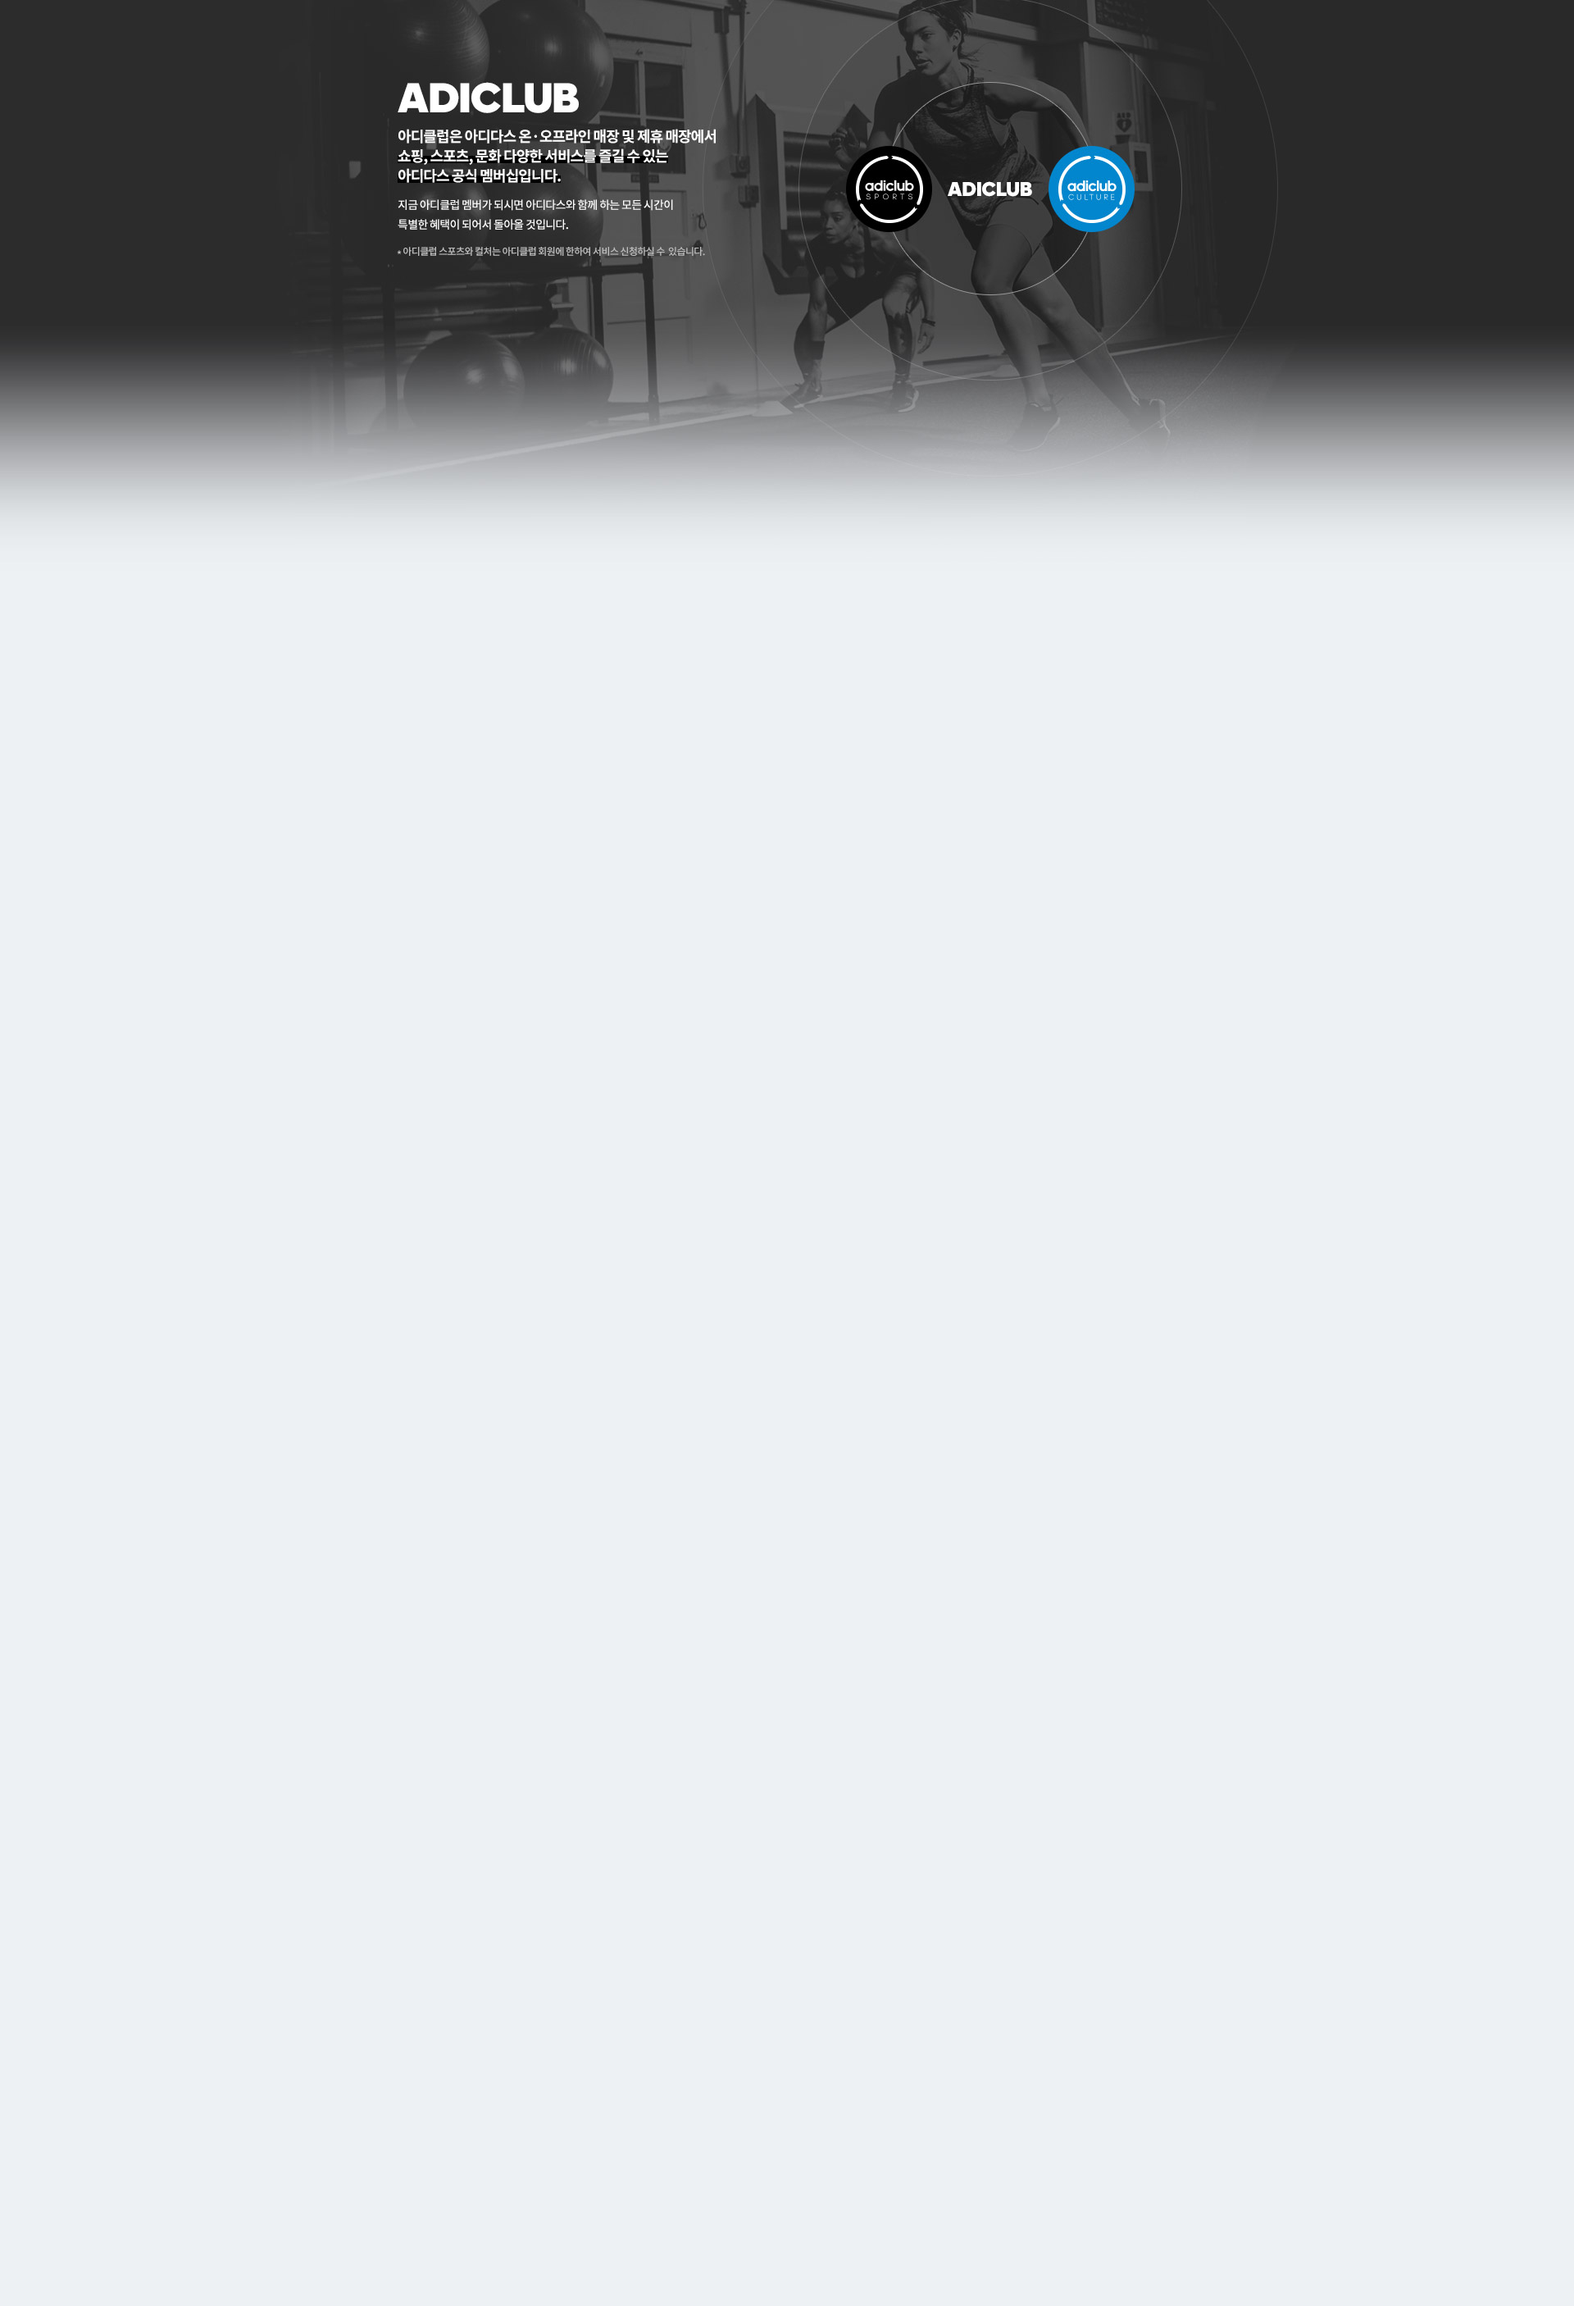
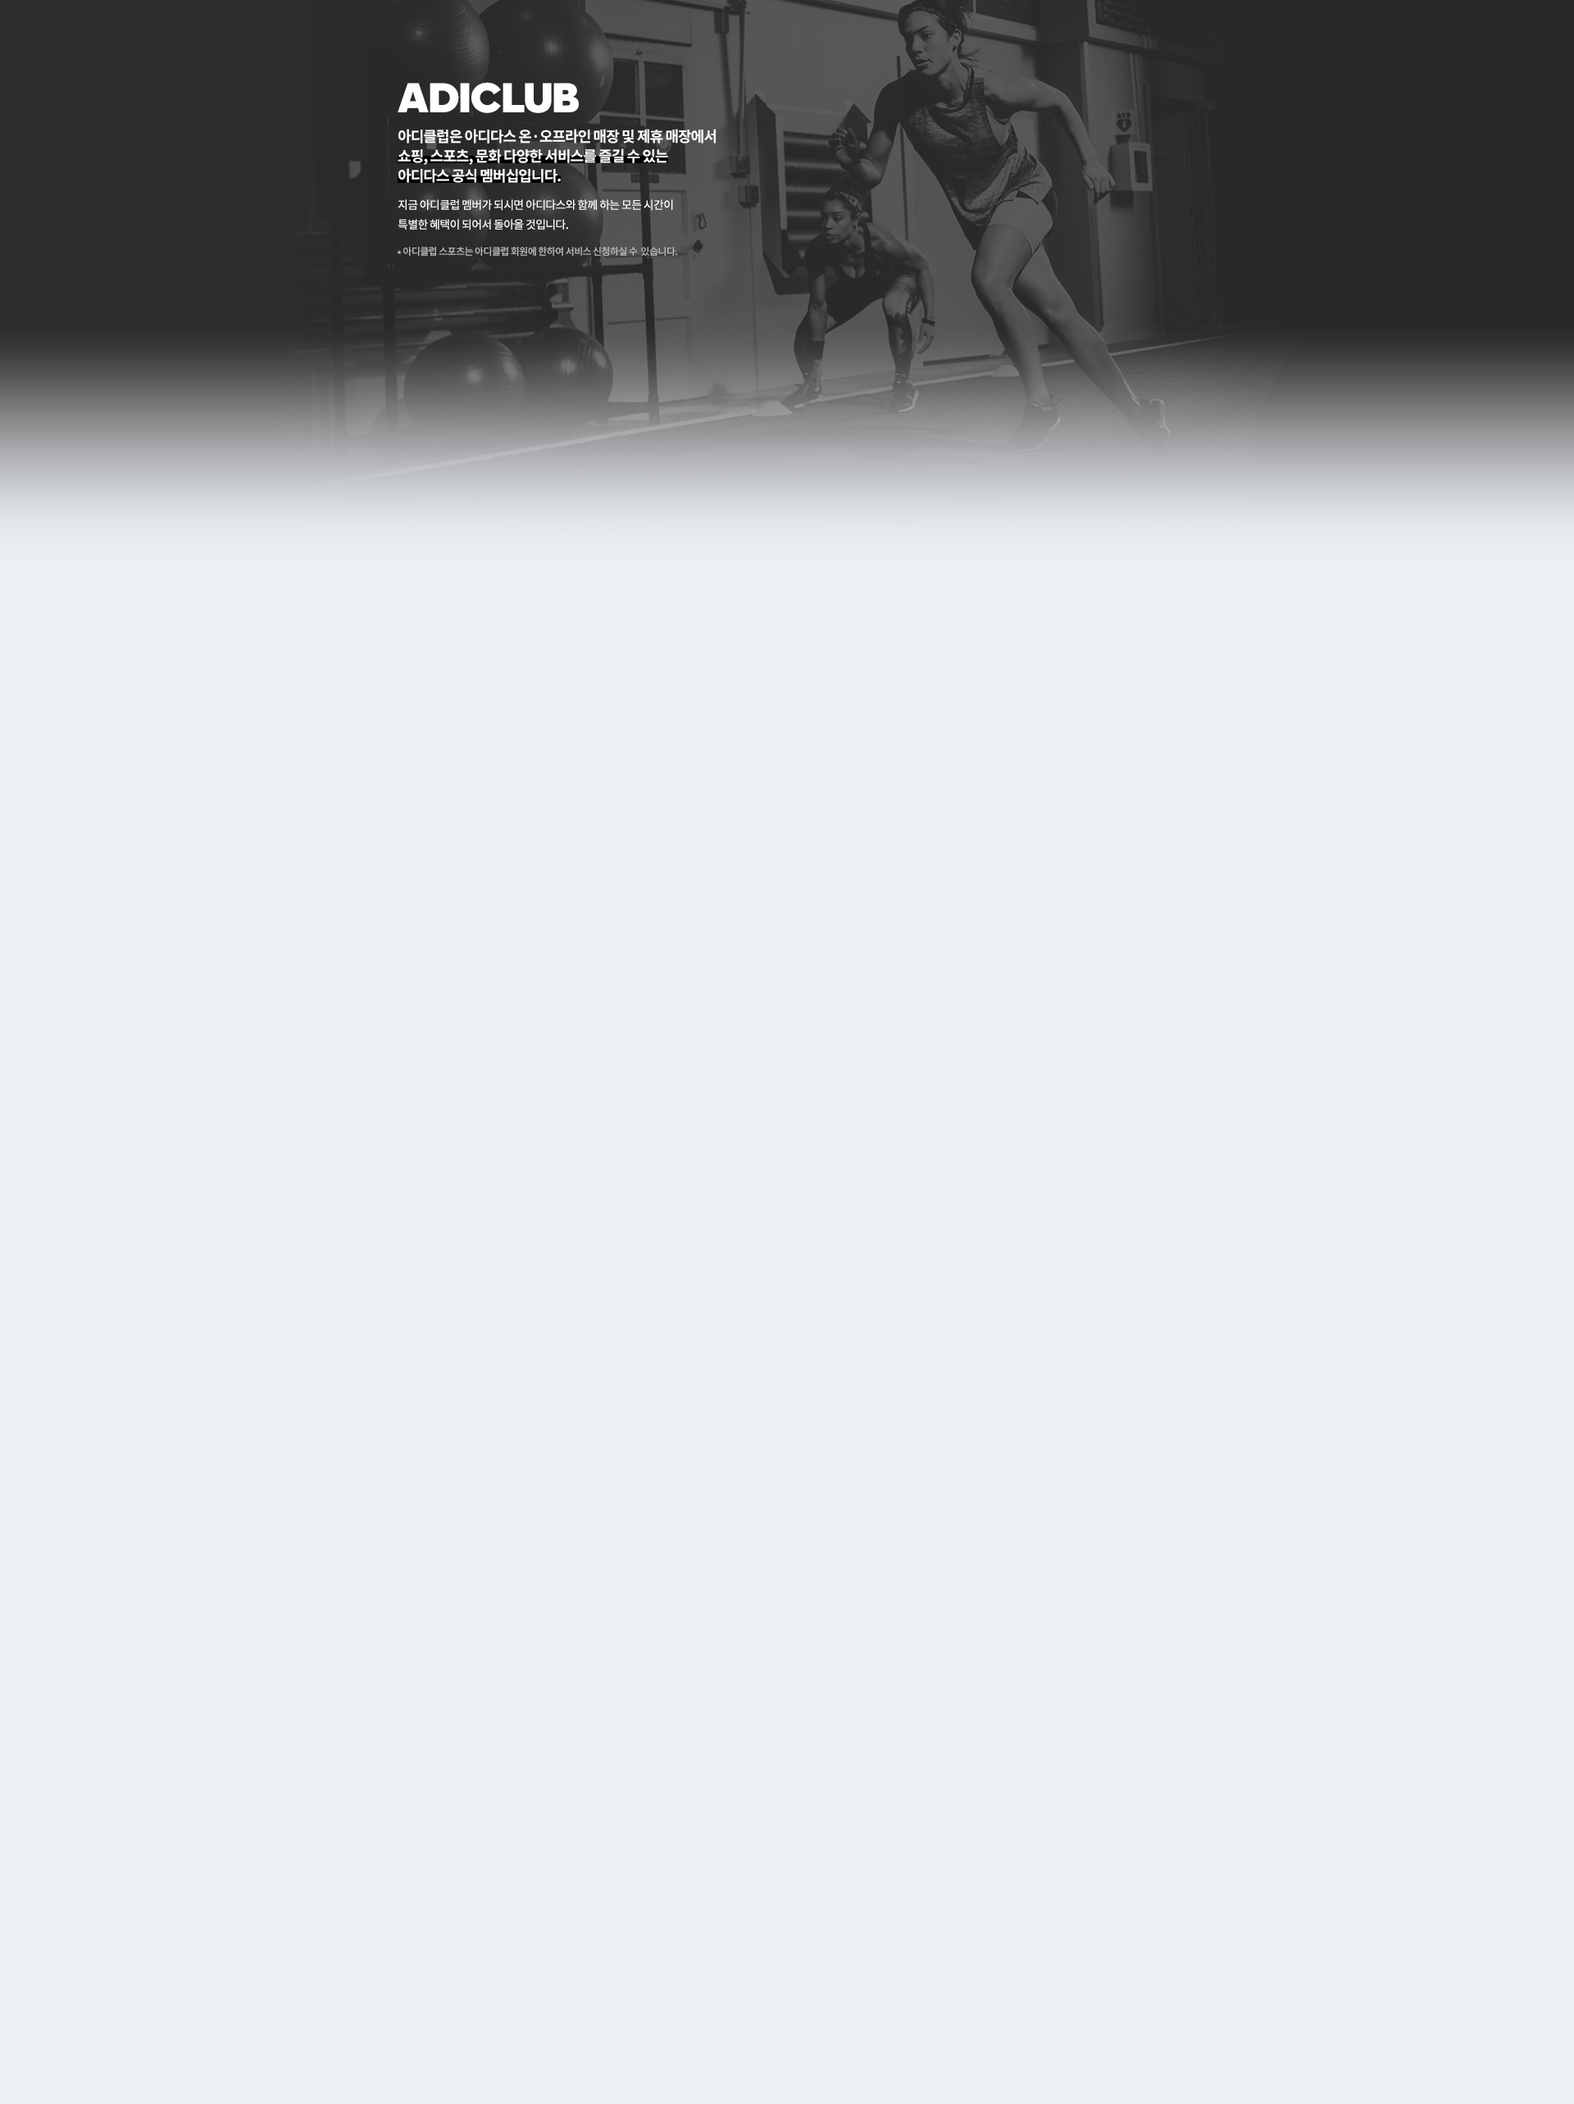
아디_아디클럽수정건

Changed region(s): [[0.0, 0.0, 1.0, 0.2494]]

diff --git a/app/html/adidas/Adiclubmemeber_Main.html b/app/html/adidas/Adiclubmemeber_Main.html
@@ -1350,8 +1350,8 @@
                     <div class="btn-wrapper">
                         <a href="#" >
                             <img src="/images/adidas/club/adiclub_renewal_170518/main_btn_club_join.jpg" alt="">
-                        </a>
-                        <a href="#" >
+						</a>					
+                        <a href="http://shop.adidas.co.kr/PF080101.action#noti" >
                             <img src="/images/adidas/club/adiclub_renewal_170518/main_btn_sc_join.png" alt="">
                         </a>
                     </div>
@@ -1380,8 +1380,7 @@
                 <div class="adiclub_body">
 
 					<div id="divView1" style="display: block;">
-						<div style="padding-top:50px;">
-							<!-- 170607 이미지수정 -->
+						<div style="padding-top:50px;">							
 	                        <img src="/images/adidas/club/adiclub_renewal_170518/adiclub_info.jpg" alt="아디클럽 멤버십 등급별 구매혜택" usemap="#adiclub_benefit1">
 	                        <map name="adiclub_benefit1" id="adiclub_benefit1">
                                 <area shape="rext" coords="234,1325,891,1393" href="#" alt="아디클럽 가입하기">
@@ -1391,10 +1390,12 @@
 	                    <div style="padding-top:70px; padding-bottom:70px;">
 	                        <img src="/images/adidas/club/adiclub_renewal_170518/adiclub_sport_culture_info.jpg" alt="아디클럽 멤버십 스포츠 컬쳐 서비스 안내" usemap="#adiclub_benefit2">
 	                        <map name="adiclub_benefit2" id="adiclub_benefit2">
-	                            <area shape="rext" coords="230,740,558,810" href="#" alt="아디클럽 스포츠 신청하기">
-								<area shape="rext" coords="565,740,890,810" href="#" alt="아디클럽 컬쳐 신청하기">
-								<area shape="rext" coords="0,298,173,323" href="javascript:void(0)" class="ready_alert" alt="아디클럽 스포츠 상세혜택">
-	                            <area shape="rext" coords="0,323,173,355" href="javascript:void(0)" class="ready_alert" alt="아디클럽 컬쳐 상세혜택">
+								<!-- 181227 변경 및 삭제 -->
+								<area shape="rext" coords="230,657,888,726" href="#" alt="아디클럽 스포츠 신청하기">							
+								<!-- <area shape="rext" coords="565,740,890,810" href="#" alt="아디클럽 컬쳐 신청하기"> -->
+								<area shape="rext" coords="0,298,173,323" href="javascript:void(0)" class="ready_alert" alt="아디클럽 스포츠 상세혜택">						
+								<!-- <area shape="rext" coords="0,323,173,355" href="javascript:void(0)" class="ready_alert" alt="아디클럽 컬쳐 상세혜택"> -->
+								<!-- 181227 변경 및 삭제 END -->
 	                        </map>
 	                    </div>
 					</div>

diff --git a/app/html/adidas/Adiclubmemeber_sports.html b/app/html/adidas/Adiclubmemeber_sports.html
@@ -1343,8 +1343,9 @@
                 <div class="ct950 clfix">
                     <h2>ADICLUB</h2>
                     <ul class="clfix">
-                        <li><a href="#" class="on">아디클럽 스포츠</a></li>
-                        <li><a href="#">아디클럽 컬처</a></li>
+						<li><a href="#" class="on">아디클럽 스포츠</a></li>
+						<!-- 181227 삭제 -->
+                        <!-- <li><a href="#">아디클럽 컬처</a></li> -->
                     </ul>
                 </div>
             </div>
@@ -1363,11 +1364,12 @@
 						    <a href="javascript:void(0)"><span>adiclub sports MENU <em></em></span></a>
 						    <div class="select-contents option-list">
 						        <ul>
+									<!-- 181227 변경 및 삭제 -->
 						            <li data-option-value="" data-option-text="프로그램 예약하기<em></em>"><a href="javascript:void(0)">프로그램 예약하기 <span class="ico"></span></a></li>
-						            <li data-option-value="" data-option-text="<span>RUNBASE</span> 바로가기<em></em>"><a href="javascript:void(0)"><span>RUNBASE</span> 바로가기<span class="ico"></span></a></li>
-                                    <li data-option-value="" data-option-text="<span>AR</span> 바로가기<em></em>"><a href="javascript:void(0)"><span>AR</span> 바로가기<span class="ico"></span></a></li>
-                                    <!-- MMCA 추가 -->
-						            <li data-option-value="" data-option-text="<span>AR</span> 바로가기<em></em>"><a href="http://shop.adidas.co.kr/reservation.action?RS_TYPE=04&selDay=2018-06-08"><span>MMCA X</span> 아디다스<span class="ico"></span></a></li>
+						            <!-- <li data-option-value="" data-option-text="<span>RUNBASE</span> 바로가기<em></em>"><a href="javascript:void(0)"><span>RUNBASE</span> 바로가기<span class="ico"></span></a></li> -->
+                                    <li data-option-value="" data-option-text="<span>AR</span> 바로가기<em></em>"><a href="javascript:void(0)"><span>ADIDAS RUNNERS</span> 바로가기<span class="ico"></span></a></li>                                    
+									<!-- <li data-option-value="" data-option-text="<span>AR</span> 바로가기<em></em>"><a href="http://shop.adidas.co.kr/reservation.action?RS_TYPE=04&selDay=2018-06-08"><span>MMCA X</span> 아디다스<span class="ico"></span></a></li> -->
+									<!-- 181227 변경 및 삭제 END -->
 						        </ul>
 						    </div>
 						</div>

diff --git a/app/css/adidas/adidas_r.css b/app/css/adidas/adidas_r.css
@@ -2291,7 +2291,7 @@ div.error .btn {width:700px; height:30px; text-align:center; margin-top:20px;}
 #contents_r{position:relative;width:950px;margin:0 auto;}
 #container_r#container_r.main{ background: #fff; }
 #container_r.adiclub_renewal.adiclub_main{
-	background: url('/images/adidas/club/adiclub_renewal_170518/adiclub_main_bg.jpg') top center no-repeat;
+	background: url('/images/adidas/club/adiclub_renewal_170518/adiclub_main_bg.jpg') #edf1f4 top center no-repeat;
 }
 
 #container_r.adiclub_renewal.adiclub_sports{
